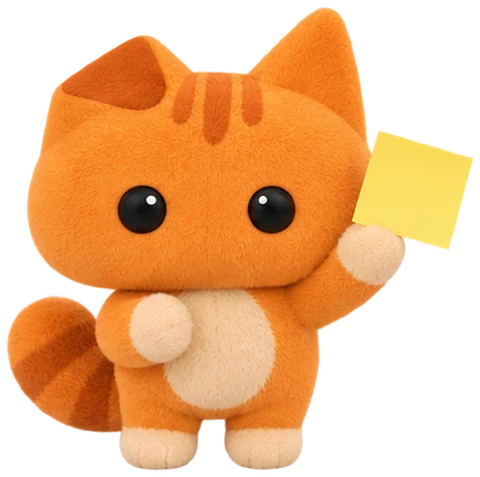
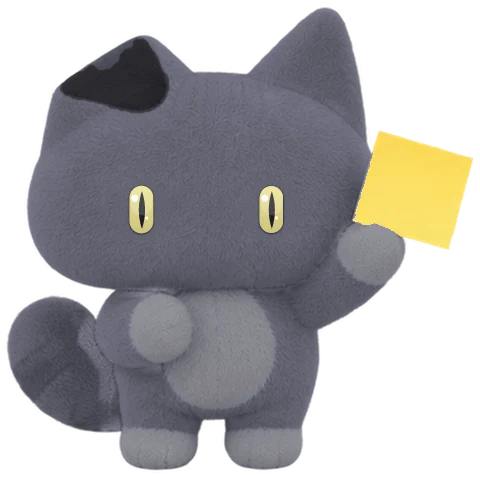
Rebrand plush mascot art to grey British Shorthair (13 images)
Recolour docs/brand/art + poses to the design B grey palette
(#626270 fur, #29272D inner ear, #E4D98A olive-yellow capsule eyes),
plus the halo-mark.svg and diorama cat to match.

diff --git a/crates/studio-diorama/src/scene.rs b/crates/studio-diorama/src/scene.rs
@@ -128,9 +128,9 @@ const PAL: [[u32; 5]; mat::COUNT] = [
     /* flower a     */ [0xF2C24F, 0xF2C24F, 0xF2C24F, 0x8A7A5A, 0x4A4F8A],
     /* flower b     */ [0xFFFFFF, 0xFFFFFF, 0xFBE9C9, 0x9A9AB8, 0x7A80B8],
     /* flower c     */ [0xE7774A, 0xE7774A, 0xE7774A, 0x8A5A52, 0x4A3F78],
-    /* cat          */ [0xE98B2E, 0xE98B2E, 0xE07E24, 0x6E4A3A, 0x151840],
-    /* cat dark     */ [0xB8621C, 0xB8621C, 0xA8561A, 0x4E342C, 0x0E1030],
-    /* cat light    */ [0xFFF3DF, 0xFFF3DF, 0xFBE3C0, 0x9A8A8A, 0x23264F],
+    /* cat          */ [0x626270, 0x626270, 0x55555F, 0x4A4A55, 0x151840],
+    /* cat dark     */ [0x4A4A55, 0x4A4A55, 0x42424D, 0x38383F, 0x0E1030],
+    /* cat light    */ [0xC9C9D2, 0xC9C9D2, 0xBFBFCA, 0x8E8E98, 0x23264F],
     /* post         */ [0x474F84, 0x4A5488, 0x414A7C, 0x2F3462, 0x1B1E44],
     /* chimney      */ [0x876558, 0x8E6A5A, 0x7E5A4A, 0x4A3E4A, 0x20203F],
     /* smoke        */ [0xFFF2E8, 0xF2F4F8, 0xFBE9C9, 0x6A6690, 0x2D3162],
